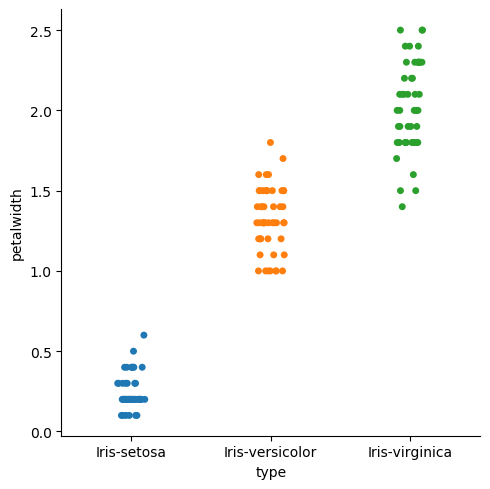
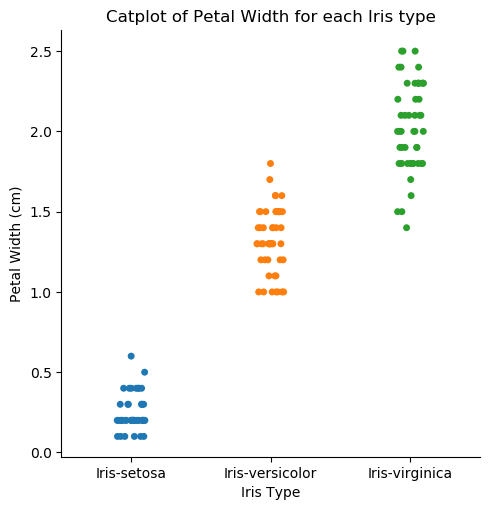
Catplot now has dynamic axis labels and titles.

diff --git a/irisAnalysis.py b/irisAnalysis.py
@@ -183,7 +183,10 @@ df2 = df.reset_index()
 for measurement in df2.columns:
     name = df2[measurement].name
     if name != "type":
+        measurementname = nameFormat(measurement)
         sns_plot = sns.catplot(x="type", y=measurement, data=df2)
+        sns_plot.set_axis_labels("Iris Type", measurementname + " (cm)")
+        sns_plot.ax.set_title("Catplot of " + measurementname + " for each Iris type")
         sns_plot.savefig(measurement + "catplot.png")
         plt.clf()
         plt.close()
